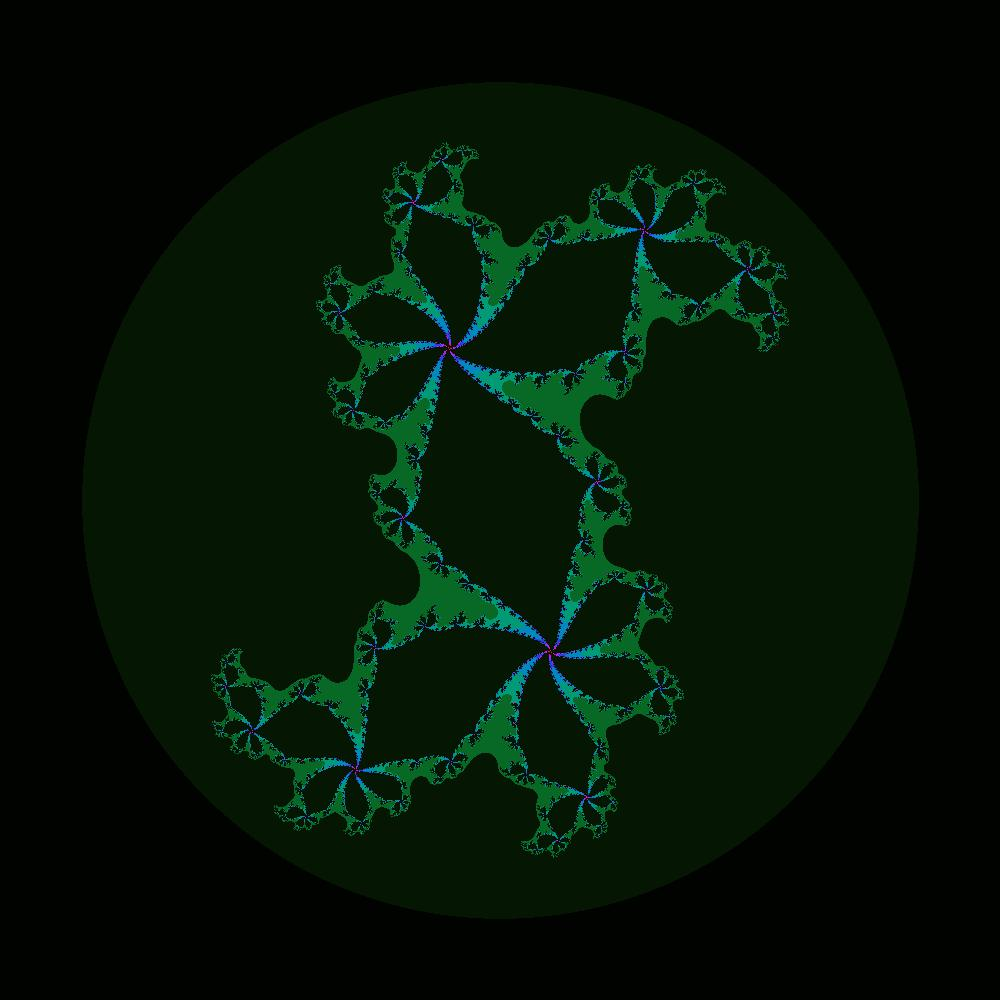
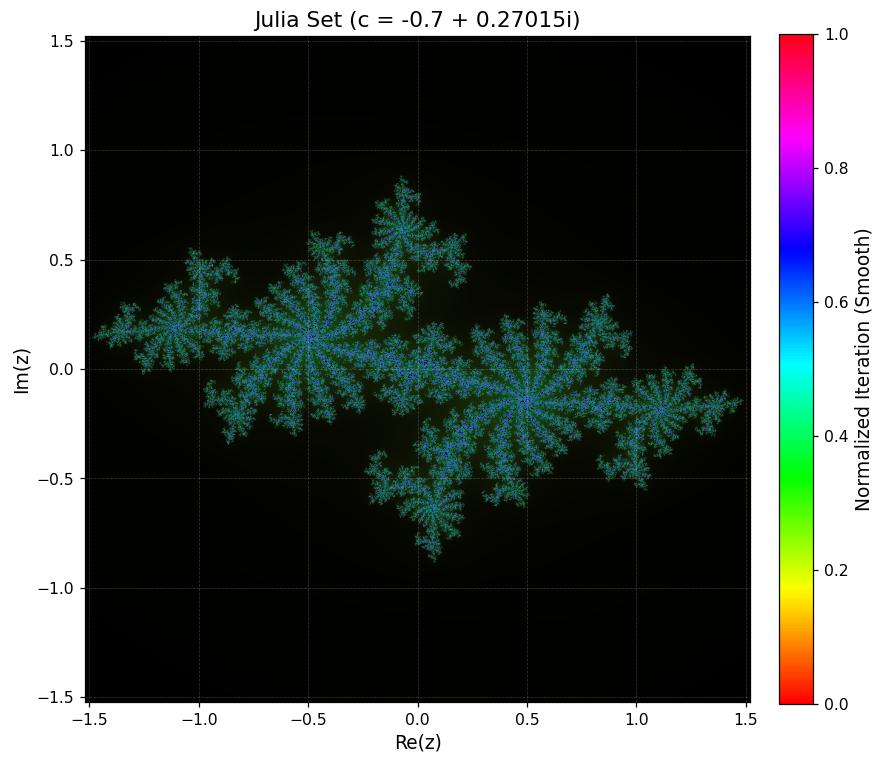
sync

diff --git a/julia_render.py b/julia_render.py
@@ -1,53 +1,59 @@
 import numpy as np
-from PIL import Image, ImageFilter, ImageEnhance, ImageOps
+import matplotlib.pyplot as plt
 from matplotlib.colors import hsv_to_rgb
 
-width, height = 1000, 1000
-x_range = (-1.62, 1.62)
-y_range = (-1.62, 1.62)
-c = complex(0.38, 0.33)
-max_iter = 360
+# Parameters for a scientific Julia set plot
+width, height = 900, 900
+x_range = (-1.52, 1.52)
+y_range = (-1.52, 1.52)
+c = complex(-0.71, 0.28)
+max_iter = 400
 
+# Generate grid
 x = np.linspace(x_range[0], x_range[1], width)
 y = np.linspace(y_range[0], y_range[1], height)
 X, Y = np.meshgrid(x, y)
 Z = X + 1j * Y
 
-div_iter = np.zeros(Z.shape, dtype=int)
+# Julia set calculation
+iteration = np.zeros(Z.shape, dtype=int)
 mask = np.ones(Z.shape, dtype=bool)
 for i in range(max_iter):
     Z[mask] = Z[mask] ** 2 + c
     mask_new = np.abs(Z) <= 2
-    div_iter[mask & ~mask_new] = i
+    iteration[mask & ~mask_new] = i
     mask = mask_new
 
+# Smooth coloring
 with np.errstate(divide='ignore', invalid='ignore'):
-    smooth = div_iter + 1 - np.log(np.log2(np.abs(Z)))
+    smooth = iteration + 1 - np.log(np.log2(np.abs(Z)))
     smooth = np.nan_to_num(smooth)
 smooth_norm = (smooth - smooth.min()) / (smooth.max() - smooth.min())
 
+# HSV colormap for scientific look
 hsv = np.zeros((height, width, 3), dtype=float)
-hsv[..., 0] = (0.8 * smooth_norm + 0.3) % 1
-hsv[..., 1] = 0.7 + 0.3 * np.abs(np.sin(2 * np.pi * smooth_norm))
-hsv[..., 2] = smooth_norm ** 0.5
+hsv[..., 0] = (0.6 * smooth_norm + 0.2) % 1
+hsv[..., 1] = 0.8
+hsv[..., 2] = smooth_norm ** 0.8
+rgb = hsv_to_rgb(hsv)
 
-rgb = (hsv_to_rgb(hsv) * 255).astype(np.uint8)
-img = Image.fromarray(rgb)
+# Plot with scientific style
+fig, ax = plt.subplots(figsize=(8, 8), dpi=112)
+im = ax.imshow(rgb, extent=(x_range[0], x_range[1], y_range[0], y_range[1]), origin='lower')
+ax.set_title('Julia Set (c = -0.7 + 0.27015i)', fontsize=14)
+ax.set_xlabel('Re(z)', fontsize=12)
+ax.set_ylabel('Im(z)', fontsize=12)
+ax.grid(True, color='white', alpha=0.2, linestyle='--', linewidth=0.5)
 
-img = img.quantize(colors=12, method=2)
-img = img.convert('RGB')
+# Add colorbar
+from matplotlib.cm import ScalarMappable
+from matplotlib.colors import Normalize
+sm = ScalarMappable(cmap='hsv', norm=Normalize(vmin=smooth_norm.min(), vmax=smooth_norm.max()))
+sm.set_array([])
+cbar = plt.colorbar(sm, ax=ax, fraction=0.046, pad=0.04)
+cbar.set_label('Normalized Iteration (Smooth)', fontsize=12)
 
-# Circular vignette
-def vignette(im):
-    arr = np.array(im).astype(np.float32)
-    cy, cx = arr.shape[0] // 2, arr.shape[1] // 2
-    Y, X = np.ogrid[:arr.shape[0], :arr.shape[1]]
-    mask = ((Y - cy) ** 2 + (X - cx) ** 2) / (cy * cx) > 0.7
-    arr[mask] = arr[mask] * 0.3
-    return Image.fromarray(arr.astype(np.uint8))
-
-img = vignette(img)
-img = ImageEnhance.Contrast(img).enhance(1.4)
-
-output_path = 'julia_output.jpg'
-img.save(output_path) 
+# Save as scientific-looking chart
+plt.tight_layout()
+plt.savefig('julia_output.jpg', dpi=112, bbox_inches='tight')
+plt.close() 
